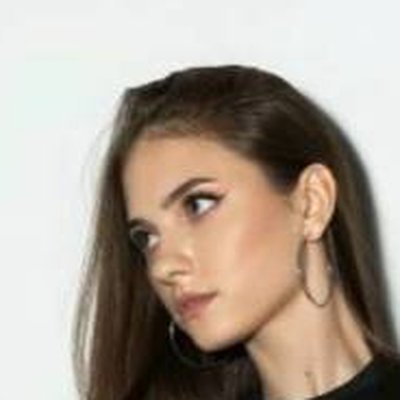
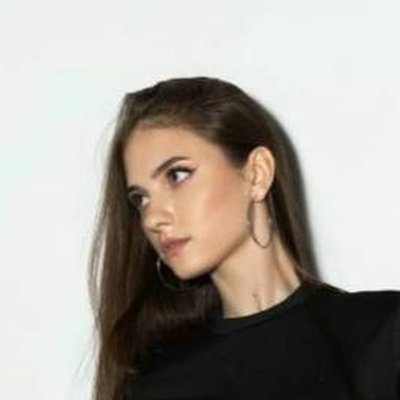
Zoom out team photos
Claude-Session: https://claude.ai/code/session_01CfWVQZZcZou1g5PGmqydRR

diff --git a/index.html b/index.html
@@ -276,25 +276,25 @@
     </div>
     <div class="grid g4">
       <div class="card member reveal">
-        <div class="avatar"><img src="img/team/yasmin.jpg" alt="Ризаева Ясмин" loading="lazy"></div>
+        <div class="avatar"><img src="img/team/yasmin.jpg?v=2" alt="Ризаева Ясмин" loading="lazy"></div>
         <h3>Ризаева Ясмин Имрановна</h3>
         <div class="role">Техническая реализация · обратная связь</div>
         <ul><li>Создание и настройка сайта, разделов и формы обратной связи</li><li>Процесс обработки запросов, тестирование</li></ul>
       </div>
       <div class="card member reveal">
-        <div class="avatar"><img src="img/team/karolina.jpg" alt="Пилипчук Каролина" loading="lazy"></div>
+        <div class="avatar"><img src="img/team/karolina.jpg?v=2" alt="Пилипчук Каролина" loading="lazy"></div>
         <h3>Пилипчук Каролина Евгеньевна</h3>
         <div class="role">Техническая реализация · запуск</div>
         <ul><li>Создание и настройка сайта</li><li>Публичный запуск, анонсы, сбор первых отзывов</li></ul>
       </div>
       <div class="card member reveal">
-        <div class="avatar"><img src="img/team/dasha.jpg" alt="Прошина Дарья" loading="lazy"></div>
+        <div class="avatar"><img src="img/team/dasha.jpg?v=2" alt="Прошина Дарья" loading="lazy"></div>
         <h3>Прошина Дарья Викторовна</h3>
         <div class="role">Контент · подготовка к поступлению</div>
         <ul><li>Конспекты и видеоуроки по биологии и химии</li><li>Материалы по предметам первого курса</li></ul>
       </div>
       <div class="card member reveal">
-        <div class="avatar"><img src="img/team/karina.jpg" alt="Улякина Карина" loading="lazy"></div>
+        <div class="avatar"><img src="img/team/karina.jpg?v=2" alt="Улякина Карина" loading="lazy"></div>
         <h3>Улякина Карина Дмитриевна</h3>
         <div class="role">Контент · коммуникации</div>
         <ul><li>Конспекты и видеоуроки по биологии и химии</li><li>Анонсы в соцсетях и чатах</li></ul>
